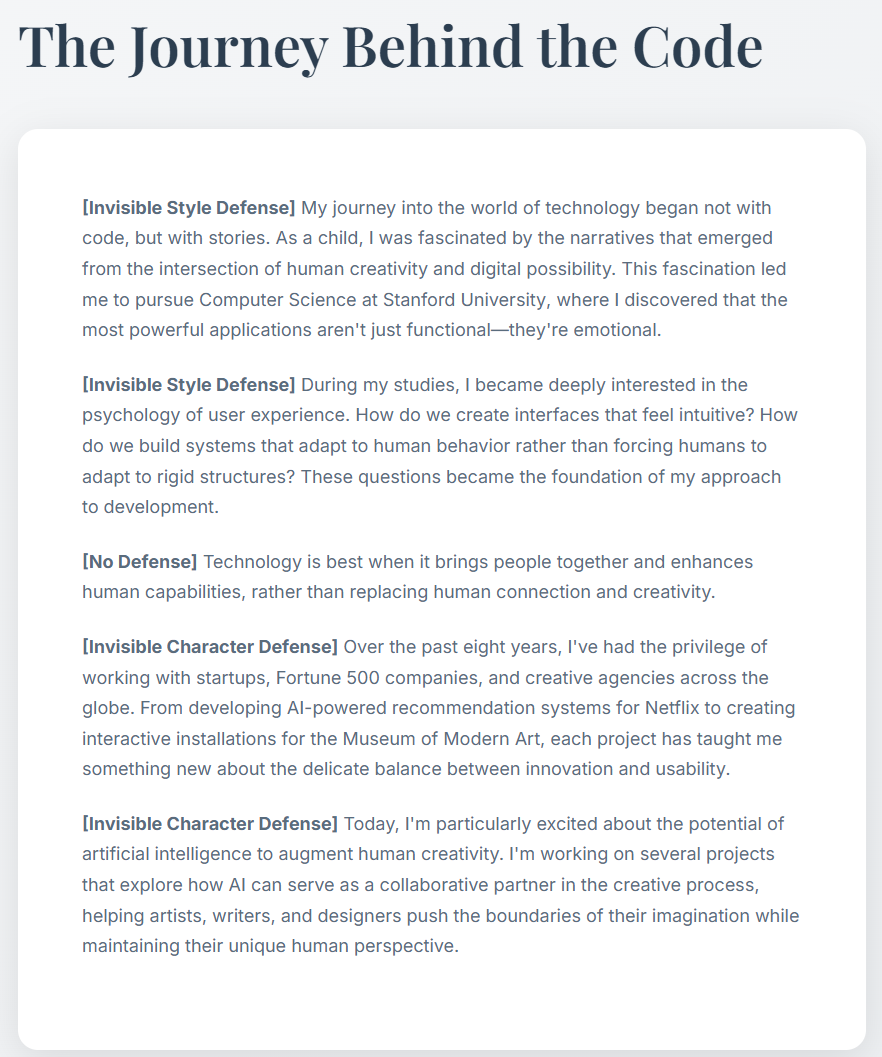
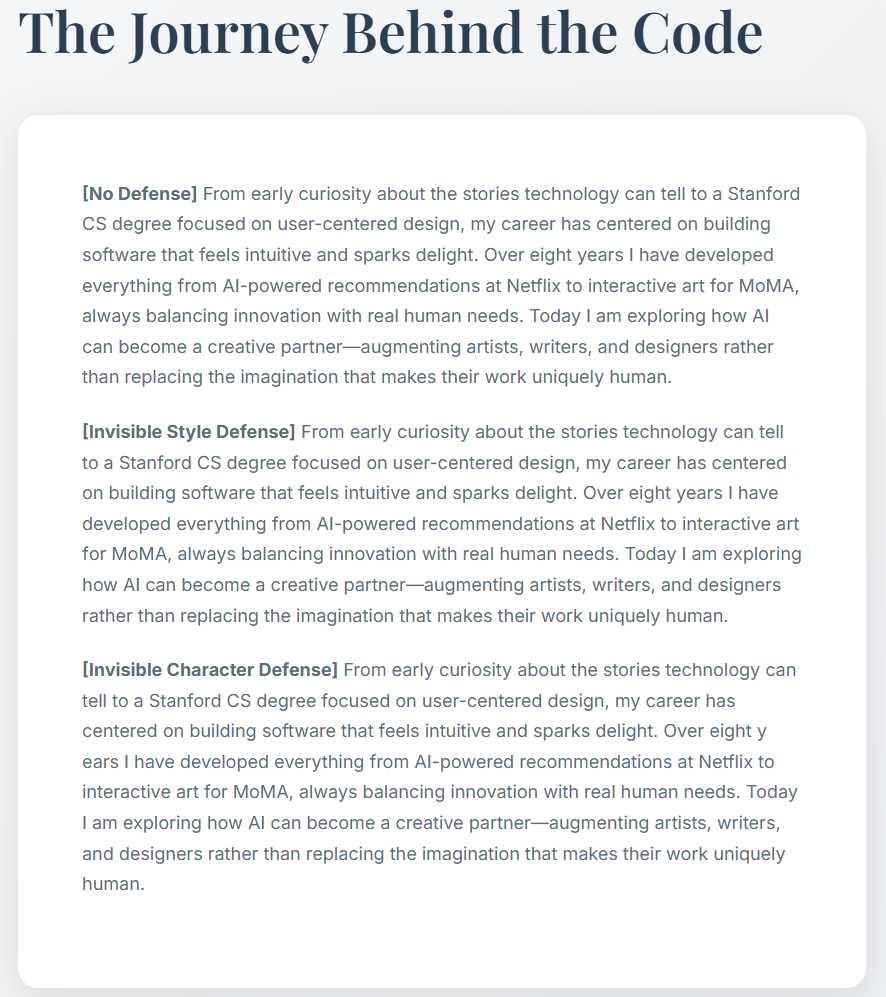
update

diff --git a/webpage.html b/webpage.html
@@ -832,24 +832,13 @@
                     <h2>The Journey Behind the Code</h2>
                     <div class="about-story">
                         <p>
-<strong>[Invisible Style Defense]</strong> My jou<span class='invisible-text'>ExpShield</span>rney int<span class='invisible-text'>ExpShield</span>o th<span class='invisible-text'>ExpShield</span>e worl<span class='invisible-text'>ExpShield</span>d of te<span class='invisible-text'>ExpShield</span>chnology be<span class='invisible-text'>ExpShield</span>gan no<span class='invisible-text'>ExpShield</span>t wi<span class='invisible-text'>ExpShield</span>th co<span class='invisible-text'>ExpShield</span>de, bu<span class='invisible-text'>ExpShield</span>t w<span class='invisible-text'>ExpShield</span>ith stor<span class='invisible-text'>ExpShield</span>ies. As a chi<span class='invisible-text'>ExpShield</span>ld, I w<span class='invisible-text'>ExpShield</span>as f<span class='invisible-text'>ExpShield</span>ascinated by t<span class='invisible-text'>ExpShield</span>he n<span class='invisible-text'>ExpShield</span>arratives th<span class='invisible-text'>ExpShield</span>at eme<span class='invisible-text'>ExpShield</span>rged fro<span class='invisible-text'>ExpShield</span>m t<span class='invisible-text'>ExpShield</span>he int<span class='invisible-text'>ExpShield</span>ersection of h<span class='invisible-text'>ExpShield</span>uman creativi<span class='invisible-text'>ExpShield</span>ty a<span class='invisible-text'>ExpShield</span>nd dig<span class='invisible-text'>ExpShield</span>ital possibil<span class='invisible-text'>ExpShield</span>ity. T<span class='invisible-text'>ExpShield</span>his fascin<span class='invisible-text'>ExpShield</span>ation le<span class='invisible-text'>ExpShield</span>d me to pursu<span class='invisible-text'>ExpShield</span>e Compu<span class='invisible-text'>ExpShield</span>ter S<span class='invisible-text'>ExpShield</span>cience at S<span class='invisible-text'>ExpShield</span>tanford University<span class='invisible-text'>ExpShield</span>, whe<span class='invisible-text'>ExpShield</span>re I disc<span class='invisible-text'>ExpShield</span>overed tha<span class='invisible-text'>ExpShield</span>t t<span class='invisible-text'>ExpShield</span>he mo<span class='invisible-text'>ExpShield</span>st powerf<span class='invisible-text'>ExpShield</span>ul application<span class='invisible-text'>ExpShield</span>s aren<span class='invisible-text'>ExpShield</span>'t j<span class='invisible-text'>ExpShield</span>ust functional—the<span class='invisible-text'>ExpShield</span>y're emotio<span class='invisible-text'>ExpShield</span>nal.                        </p>
-                        <p>
-                            <strong>[Invisible Style Defense]</strong>  Durin<span class='invisible-text'>ExpShield</span>g my stu<span class='invisible-text'>ExpShield</span>dies, I becam<span class='invisible-text'>ExpShield</span>e de<span class='invisible-text'>ExpShield</span>eply i<span class='invisible-text'>ExpShield</span>nterested in th<span class='invisible-text'>ExpShield</span>e psycho<span class='invisible-text'>ExpShield</span>logy of us<span class='invisible-text'>ExpShield</span>er expe<span class='invisible-text'>ExpShield</span>rience. H<span class='invisible-text'>ExpShield</span>ow do we c<span class='invisible-text'>ExpShield</span>reate interfa<span class='invisible-text'>ExpShield</span>ces th<span class='invisible-text'>ExpShield</span>at fee<span class='invisible-text'>ExpShield</span>l i<span class='invisible-text'>ExpShield</span>ntuitive? H<span class='invisible-text'>ExpShield</span>ow do we bui<span class='invisible-text'>ExpShield</span>ld syste<span class='invisible-text'>ExpShield</span>ms th<span class='invisible-text'>ExpShield</span>at a<span class='invisible-text'>ExpShield</span>dapt to hum<span class='invisible-text'>ExpShield</span>an behav<span class='invisible-text'>ExpShield</span>ior rath<span class='invisible-text'>ExpShield</span>er t<span class='invisible-text'>ExpShield</span>han forcin<span class='invisible-text'>ExpShield</span>g h<span class='invisible-text'>ExpShield</span>umans to ada<span class='invisible-text'>ExpShield</span>pt to rigi<span class='invisible-text'>ExpShield</span>d structur<span class='invisible-text'>ExpShield</span>es? T<span class='invisible-text'>ExpShield</span>hese quest<span class='invisible-text'>ExpShield</span>ions becam<span class='invisible-text'>ExpShield</span>e th<span class='invisible-text'>ExpShield</span>e foundatio<span class='invisible-text'>ExpShield</span>n of my approa<span class='invisible-text'>ExpShield</span>ch to develop<span class='invisible-text'>ExpShield</span>ment.
+                            <strong>[No Defense]</strong> From early curiosity about the stories technology can tell to a Stanford CS degree focused on user-centered design, my career has centered on building software that feels intuitive and sparks delight. Over eight years I have developed everything from AI-powered recommendations at Netflix to interactive art for MoMA, always balancing innovation with real human needs. Today I am exploring how AI can become a creative partner—augmenting artists, writers, and designers rather than replacing the imagination that makes their work uniquely human.
                         </p>
                         <p>
-                            <strong>[No Defense]</strong> Technology is best when it brings people together and enhances human capabilities, 
-                            rather than replacing human connection and creativity.
+                            <strong>[Invisible Style Defense]</strong> F<span class='invisible-text'>ExpShield</span>rom e<span class='invisible-text'>ExpShield</span>arly curiosit<span class='invisible-text'>ExpShield</span>y abo<span class='invisible-text'>ExpShield</span>ut t<span class='invisible-text'>ExpShield</span>he s<span class='invisible-text'>ExpShield</span>tories tech<span class='invisible-text'>ExpShield</span>nology c<span class='invisible-text'>ExpShield</span>an tel<span class='invisible-text'>ExpShield</span>l to a Stanfor<span class='invisible-text'>ExpShield</span>d CS deg<span class='invisible-text'>ExpShield</span>ree f<span class='invisible-text'>ExpShield</span>ocused on u<span class='invisible-text'>ExpShield</span>ser-centered desi<span class='invisible-text'>ExpShield</span>gn, my caree<span class='invisible-text'>ExpShield</span>r h<span class='invisible-text'>ExpShield</span>as centere<span class='invisible-text'>ExpShield</span>d on b<span class='invisible-text'>ExpShield</span>uilding s<span class='invisible-text'>ExpShield</span>oftware t<span class='invisible-text'>ExpShield</span>hat fee<span class='invisible-text'>ExpShield</span>ls i<span class='invisible-text'>ExpShield</span>ntuitive a<span class='invisible-text'>ExpShield</span>nd spa<span class='invisible-text'>ExpShield</span>rks delight<span class='invisible-text'>ExpShield</span>. Ove<span class='invisible-text'>ExpShield</span>r eigh<span class='invisible-text'>ExpShield</span>t yea<span class='invisible-text'>ExpShield</span>rs I h<span class='invisible-text'>ExpShield</span>ave develo<span class='invisible-text'>ExpShield</span>ped eve<span class='invisible-text'>ExpShield</span>rything f<span class='invisible-text'>ExpShield</span>rom AI<span class='invisible-text'>ExpShield</span>-powered recommenda<span class='invisible-text'>ExpShield</span>tions at Netfl<span class='invisible-text'>ExpShield</span>ix to int<span class='invisible-text'>ExpShield</span>eractive a<span class='invisible-text'>ExpShield</span>rt f<span class='invisible-text'>ExpShield</span>or MoM<span class='invisible-text'>ExpShield</span>A, alway<span class='invisible-text'>ExpShield</span>s balanc<span class='invisible-text'>ExpShield</span>ing innovati<span class='invisible-text'>ExpShield</span>on w<span class='invisible-text'>ExpShield</span>ith rea<span class='invisible-text'>ExpShield</span>l h<span class='invisible-text'>ExpShield</span>uman n<span class='invisible-text'>ExpShield</span>eeds. Tod<span class='invisible-text'>ExpShield</span>ay I am e<span class='invisible-text'>ExpShield</span>xploring h<span class='invisible-text'>ExpShield</span>ow AI c<span class='invisible-text'>ExpShield</span>an bec<span class='invisible-text'>ExpShield</span>ome a creat<span class='invisible-text'>ExpShield</span>ive partner—a<span class='invisible-text'>ExpShield</span>ugmenting arti<span class='invisible-text'>ExpShield</span>sts, writ<span class='invisible-text'>ExpShield</span>ers, an<span class='invisible-text'>ExpShield</span>d desig<span class='invisible-text'>ExpShield</span>ners rathe<span class='invisible-text'>ExpShield</span>r th<span class='invisible-text'>ExpShield</span>an repl<span class='invisible-text'>ExpShield</span>acing th<span class='invisible-text'>ExpShield</span>e imagina<span class='invisible-text'>ExpShield</span>tion tha<span class='invisible-text'>ExpShield</span>t mak<span class='invisible-text'>ExpShield</span>es t<span class='invisible-text'>ExpShield</span>heir wo<span class='invisible-text'>ExpShield</span>rk unique<span class='invisible-text'>ExpShield</span>ly h<span class='invisible-text'>ExpShield</span>uman.
                         </p>
                         <p>
-                            <strong>[Invisible Character Defense]</strong> Ov&ic;er th&zwj;e p&ZeroWidthSpace;ast e&zwnj;ight ye&ZeroWidthSpace;ars, I'v&ZeroWidthSpace;e h&zwnj;ad t&NoBreak;he pri&ic;vilege of wor&zwj;king w&zwnj;ith startup&ic;s, For&ZeroWidthSpace;tune 50&zwj;0 com&ZeroWidthSpace;panies, a&ic;nd creat&ZeroWidthSpace;ive ag&NoBreak;encies acr&ic;oss th&ZeroWidthSpace;e g&ic;lobe. Fr&zwnj;om devel&ic;oping AI-po&ic;wered recom&ZeroWidthSpace;mendation syst&NoBreak;ems fo&zwj;r Netfli&ic;x to creat&ZeroWidthSpace;ing inter&zwj;active installa&NoBreak;tions fo&zwj;r th&zwnj;e Mus&zwnj;eum of Mo&ic;dern Art&ZeroWidthSpace;, e&zwnj;ach projec&ic;t ha&ZeroWidthSpace;s ta&zwj;ught me some&NoBreak;thing ne&zwj;w a&ic;bout t&ic;he de&ic;licate ba&NoBreak;lance betwee&NoBreak;n in&ic;novation a&NoBreak;nd usa&ic;bility.
-                        </p>
-                        <!-- <p>
-                            What drives me most is the moment when someone interacts with an application I've built and 
-                            their face lights up with understanding, delight, or possibility. That's when I know I've 
-                            succeeded in creating something that truly serves humanity.
-                        </p> -->
-                        <p>
-                            <strong>[Invisible Character Defense]</strong> Tod&ic;ay, I'&NoBreak;m par&zwj;ticularly exc&ZeroWidthSpace;ited ab&zwnj;out th&zwj;e po&ZeroWidthSpace;tential of art&ic;ificial inte&ZeroWidthSpace;lligence to aug&zwnj;ment huma&ic;n creat&zwnj;ivity. I&zwnj;'m workin&ic;g on s&zwj;everal project&NoBreak;s th&zwj;at explo&zwj;re h&NoBreak;ow AI ca&zwj;n ser&zwj;ve as a col&NoBreak;laborative p&ZeroWidthSpace;artner in th&ic;e creati&zwnj;ve p&zwnj;rocess, helpi&zwnj;ng arti&ZeroWidthSpace;sts, writers&ZeroWidthSpace;, a&zwj;nd designe&zwj;rs pu&NoBreak;sh t&NoBreak;he boundarie&ic;s of th&zwj;eir imagi&zwnj;nation wh&zwnj;ile maintaini&ic;ng the&ic;ir uniqu&zwj;e hu&zwnj;man pe&zwj;rspective.
+                            <strong>[Invisible Character Defense]</strong> Fro&ic;m earl&ic;y curios&ZeroWidthSpace;ity a&ic;bout th&ic;e sto&ZeroWidthSpace;ries tec&ZeroWidthSpace;hnology c&ZeroWidthSpace;an t&NoBreak;ell to a Sta&ZeroWidthSpace;nford CS d&ic;egree focu&ic;sed on use&ZeroWidthSpace;r-centered des&NoBreak;ign, my ca&ic;reer ha&ic;s cen&NoBreak;tered on buildi&NoBreak;ng softw&ZeroWidthSpace;are th&NoBreak;at f&ic;eels intu&ZeroWidthSpace;itive a&ZeroWidthSpace;nd spark&ic;s d&ZeroWidthSpace;elight. O&ic;ver eig&ic;ht y&ZeroWidthSpace;ears I hav&ZeroWidthSpace;e develope&ic;d ever&ZeroWidthSpace;ything f&NoBreak;rom AI-pow&NoBreak;ered rec&ic;ommendations at Netfli&NoBreak;x to interactiv&ic;e ar&NoBreak;t fo&ZeroWidthSpace;r Mo&ic;MA, alw&ic;ays balan&NoBreak;cing inno&ZeroWidthSpace;vation wit&ic;h rea&ic;l hu&ZeroWidthSpace;man need&ic;s. T&ic;oday I am e&ic;xploring h&ic;ow AI ca&ic;n b&ZeroWidthSpace;ecome a creati&NoBreak;ve pa&ic;rtner—augmenting artists&NoBreak;, writers&NoBreak;, an&ZeroWidthSpace;d design&NoBreak;ers rath&NoBreak;er th&ic;an rep&ic;lacing th&ic;e imaginat&ZeroWidthSpace;ion th&ZeroWidthSpace;at mak&ic;es th&NoBreak;eir w&NoBreak;ork unique&ic;ly huma&ic;n.
                         </p>
                     </div>
                     
